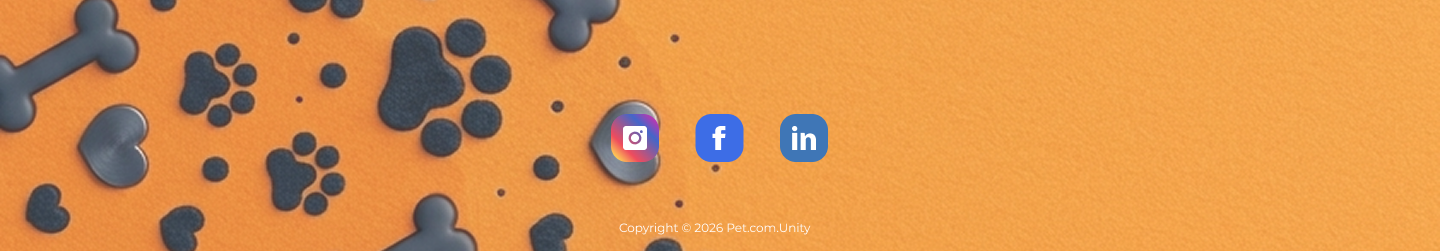
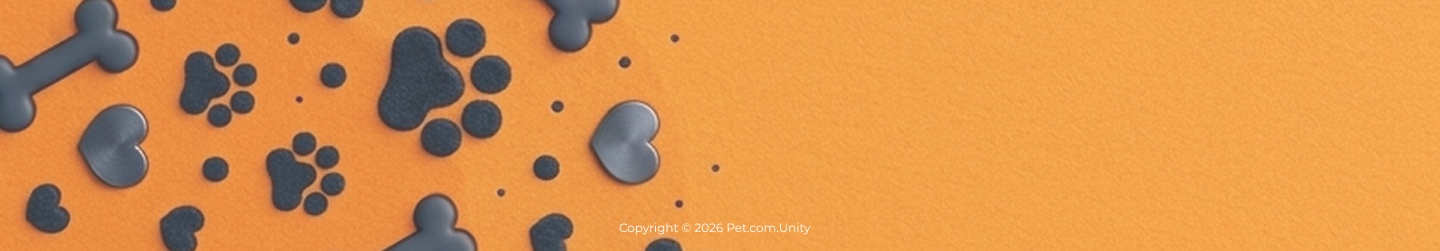
update about-us page

Changed region(s): [[0.4062, 0.4462, 0.5938, 0.6414]]

diff --git a/src/components/about/OurMission.tsx b/src/components/about/OurMission.tsx
@@ -1,20 +1,23 @@
 export function OurMission() {
   return (
-    <section className="mx-auto w-full max-w-[800px] px-4 py-12 text-center">
-      <h2 className="font-serif text-2xl font-semibold text-[#17243b]">
-        Our Mission
-      </h2>
+    <section className="mx-auto w-full max-w-[1300px] px-4 py-8 text-center md:px-8 lg:px-20">
+      <div className="mx-auto max-w-[900px] text-[#1A202C]">
+        <h2 className="font-display text-[24px] leading-[120%] font-bold md:text-[32px]">
+          Our Mission
+        </h2>
 
-      <p className="mt-2 text-xl leading-7 text-[#17243b]">
-        Our mission is to make pet adoption safer, easier, and more organized
-        while improving the quality of care pets receive throughout their lives.
-      </p>
+        <p className="font-display mt-3 text-[24px] leading-[120%] md:text-[32px]">
+          Our mission is to make pet adoption safer, easier, and more organized
+          while improving the quality of care pets receive throughout their
+          lives.
+        </p>
 
-      <p className="mt-3 text-xl leading-7 text-[#17243b]">
-        We are building a connected ecosystem where responsible adoption,
-        verified medical information, and pet wellbeing come together in one
-        platform.
-      </p>
+        <p className="font-display mt-3 text-[24px] leading-[120%] md:text-[32px]">
+          We are building a connected ecosystem where responsible adoption,
+          verified medical information, and pet wellbeing come together in one
+          platform.
+        </p>
+      </div>
     </section>
   );
 }

diff --git a/src/components/about/AdoptedPets.tsx b/src/components/about/AdoptedPets.tsx
@@ -17,24 +17,27 @@ const pets = [
 
 export function AdoptedPets() {
   return (
-    <section className="mx-auto w-full max-w-[1200px] px-20 py-8">
+    <section className="mx-auto w-full max-w-[1200px] px-4 py-8 md:px-8 lg:px-20">
       <div className="mb-8">
-        <h2 className="font-serif text-3xl text-[#17243b]">Adopted Pets</h2>
-        <p className="mt-1 text-xs text-slate-400">
+        <h2 className="font-display text-[32px] leading-[120%] font-bold text-[#1A202C] lg:text-[48px]">
+          Adopted Pets
+        </h2>
+
+        <p className="font-display mt-1 text-[20px] leading-[120%] font-semibold tracking-[-0.02em] text-[#1A202C]/45 md:text-[24px]">
           Sign in to start the adoption process
         </p>
       </div>
 
-      <div className="flex items-center justify-between gap-8">
-        <button className="text-2xl text-slate-300">‹</button>
+      <div className="flex items-center gap-4 lg:gap-8">
+        <button className="hidden text-2xl text-slate-300 lg:block">‹</button>
 
-        <div className="grid w-full grid-cols-1 justify-items-center gap-10 md:grid-cols-3">
+        <div className="grid w-full grid-cols-1 justify-items-center gap-8 md:grid-cols-2 lg:grid-cols-3">
           {pets.map((pet, index) => (
             <PetAdoptedCard key={`${pet.name}-${index}`} {...pet} />
           ))}
         </div>
 
-        <button className="text-2xl text-slate-300">›</button>
+        <button className="hidden text-2xl text-slate-300 lg:block">›</button>
       </div>
     </section>
   );

diff --git a/src/components/about/PetAdoptedCard.tsx b/src/components/about/PetAdoptedCard.tsx
@@ -10,19 +10,19 @@ type PetAdoptedCardProps = {
 
 export function PetAdoptedCard({ name, image }: PetAdoptedCardProps) {
   return (
-    <Card className="w-[220px] overflow-hidden rounded-2xl border-none bg-white shadow-md">
-      {/* Image */}
-      <div className="relative h-[220px] w-full">
+    <Card className="w-full max-w-[312px] overflow-hidden rounded-2xl border border-[#010101] bg-white shadow-sm">
+      <div className="relative m-4 h-56 overflow-hidden rounded-2xl">
         <Image src={image} alt={name} fill className="object-cover" />
       </div>
 
-      {/* Content */}
-      <CardContent className="flex flex-col items-center gap-3 p-4">
-        <h3 className="text-lg font-semibold text-[#17243b]">{name}</h3>
+      <CardContent className="px-4 pt-0 pb-4">
+        <h3 className="font-display text-[24px] leading-6 font-bold text-[#010101]">
+          {name}
+        </h3>
 
         <Button
-          size="sm"
-          className="rounded-full bg-[#f7941d] px-4 text-sm text-[#17243b] hover:bg-[#e68612]"
+          fullWidth
+          className="font-display mt-4 h-[61px] rounded-2xl border border-[#010101] bg-[#ef9322] text-[24px] leading-6 font-bold text-[#010101] hover:bg-[#e68612]"
         >
           Happy with my family
         </Button>

diff --git a/src/app/about-us/page.tsx b/src/app/about-us/page.tsx
@@ -15,13 +15,24 @@ export default function AboutUsPage() {
         title="About Pet.com.Unity"
         titleClassName="text-[2.25rem]"
         description={aboutHeroDescription}
-        descriptionClassName="w-full text-center text-[2.5rem] leading-8 tracking-normal text-[#17243b] hidden lg:block lg:text-left"
+        descriptionClassName="hidden w-full text-center text-[2.5rem] leading-8 tracking-normal text-[#17243b] lg:block lg:text-left"
       />
 
-      <main className="bg-[#fff8ef]">
-        <WhatWeDo />
-        <AdoptedPets />
-        <OurMission />
+      <main>
+        <section className="bg-[#fff8ef] px-6 py-8 lg:hidden">
+          <p className="mx-auto max-w-[720px] text-center font-serif text-[24px] leading-[130%] text-[#1A202C]">
+            {aboutHeroDescription}
+          </p>
+        </section>
+
+        <section className="bg-[#ef9322] lg:bg-[#fff8ef]">
+          <WhatWeDo />
+        </section>
+
+        <section className="bg-[#fff8ef]">
+          <AdoptedPets />
+          <OurMission />
+        </section>
       </main>
 
       <Footer />

diff --git a/src/components/about/WhatWeDo.tsx b/src/components/about/WhatWeDo.tsx
@@ -8,10 +8,12 @@ const items = [
 
 export function WhatWeDo() {
   return (
-    <section className="mx-auto w-full max-w-[1200px] px-20 pt-8">
-      <h2 className="font-serif text-2xl text-[#17243b]">What We Do</h2>
+    <section className="mx-auto w-full max-w-[1300px] px-4 py-8 md:px-8 lg:px-20">
+      <h2 className="font-display text-[24px] font-bold text-[#1A202C] md:text-[32px]">
+        What We Do
+      </h2>
 
-      <ul className="mt-2 list-disc pl-8 text-xl leading-7 text-[#17243b]">
+      <ul className="font-display mt-3 list-disc pl-8 text-[24px] leading-[120%] text-[#1A202C] md:text-[32px]">
         {items.map((item) => (
           <li key={item}>{item}</li>
         ))}
